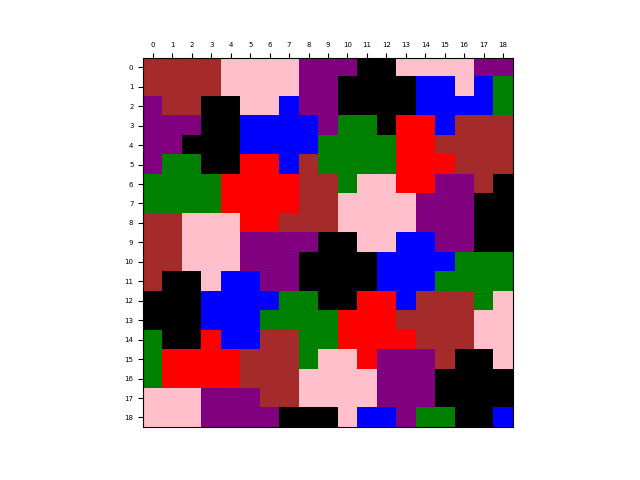
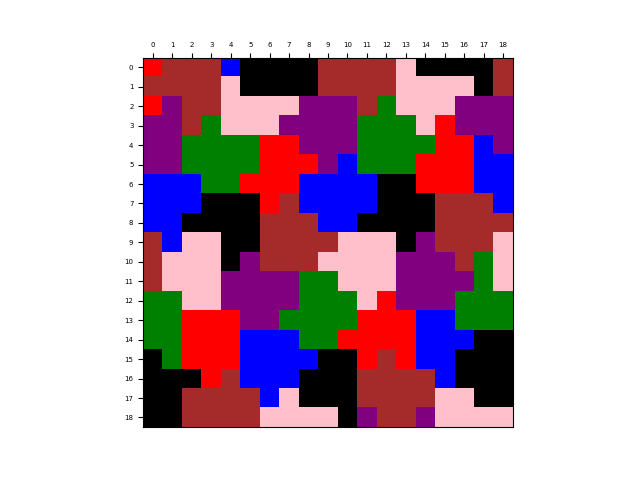
SAT restrictions

diff --git a/sat_solver.py b/sat_solver.py
@@ -1,3 +1,4 @@
+import math
 import pycosat
 import pairs_helper
 
@@ -20,11 +21,37 @@ def int_to_pixel_color(sat_var, N, K):
 def number_of_variables(N, K):
     return N*N*K                # There is a boolean variable for each pixel and color pair
 
+def set_pixel_color(cnf, i, j, color, N, K):
+    for k in range(K):
+        scale = -1
+        if k == color:
+            scale = 1
+        cnf.append([scale*pixel_color_to_int((i, j), k, N, K)])
+    return
+    
 # Given a list of pairs of adjacent pixels, this function converts the coloring problem to an equivalent CNF formula
 # In this CNF formula, there is a variable for each pixel and color pair, and this set variable is set to true if we
 # color that pixel with that color in a satisfying coloring
-def pairs_to_SAT(pairs, N, K):
+def pairs_to_SAT(pairs, S, N, K):
     cnf = []
+    
+    # We restrict three colors using an embedded equilateral triangle to cut out some redundant SAT solutions
+    pixels_per_unit = N/float(S)
+    
+    # Constrain first pixel to first color to save time
+    i0 = 0
+    j0 = 0
+    set_pixel_color(cnf, i0, j0, 0, N, K)
+    
+    # Constrain pixel that is a distance of 1 horizontally from (0, 0) to be second color
+    i1 = 0
+    j1 = int(math.floor(pixels_per_unit))
+    set_pixel_color(cnf, i1, j1, 1, N, K)
+    
+    # Constrain third pixel equidistant from first and second with length 1
+    i2 = int(math.floor(pixels_per_unit*(math.sqrt(3)/2)))
+    j2 = int(math.floor(pixels_per_unit/2))
+    set_pixel_color(cnf, i2, j2, 2, N, K)
     
     # For each pixel and color pair, add a clause ensuring that at least one pixel color pair set to true
     for i in range(N):
@@ -56,7 +83,7 @@ def solution_to_coloring(solution, N, K):
 # solver and returns a satisfying coloring or "UNSAT" if the problem is not satisfiable
 def SAT_solve(S, N, K, wrapping, itersolve=False):
     pairs = pairs_helper.list_of_pixel_pairs(S, N, wrapping, pairs_helper.Format.LIST)
-    cnf = pairs_to_SAT(pairs, N, K)
+    cnf = pairs_to_SAT(pairs, S, N, K)
     solution = []
     if itersolve:
         solution = pycosat.itersolve(cnf)

diff --git a/main_sim.py b/main_sim.py
@@ -5,10 +5,10 @@ import numpy
 # CONSTANTS
 S = 4 # Side length of nxn square
 N = 20 # Number of pixels on one side of square
-K = 7 # Number of colors
+K = 6 # Number of colors
 WRAPPING = False # Whether or not we wrap distances across edges of square when finding pairs of pixels unit distaqnce from each other
 INIT_TEMP = 10 # Initial temperature for the simulated annealing algorithm
-COOLING_RATE = 0.15 # Cooling rate for the simulated annealing algorithm. Each iteration, T is multiplied by (1-cooling_rate)
+COOLING_RATE = 0.05 # Cooling rate for the simulated annealing algorithm. Each iteration, T is multiplied by (1-cooling_rate)
 
 
 

diff --git a/main_SAT.py b/main_SAT.py
@@ -3,8 +3,8 @@ import printColourGrid
 import numpy
 
 # CONSTANTS
-S = 4 # Side length of nxn square
-N = 19 # Number of pixels on one side of square
+S = 12 # Side length of nxn square
+N = 80 # Number of pixels on one side of square
 K = 7 # Number of colors
 WRAPPING = False # Whether or not we wrap distances across edges of square when finding pairs of pixels unit distaqnce from each other
 ITER = False # Whether to find search for every solution. If ITER = False, the program terminates as soon as the first solution is found
